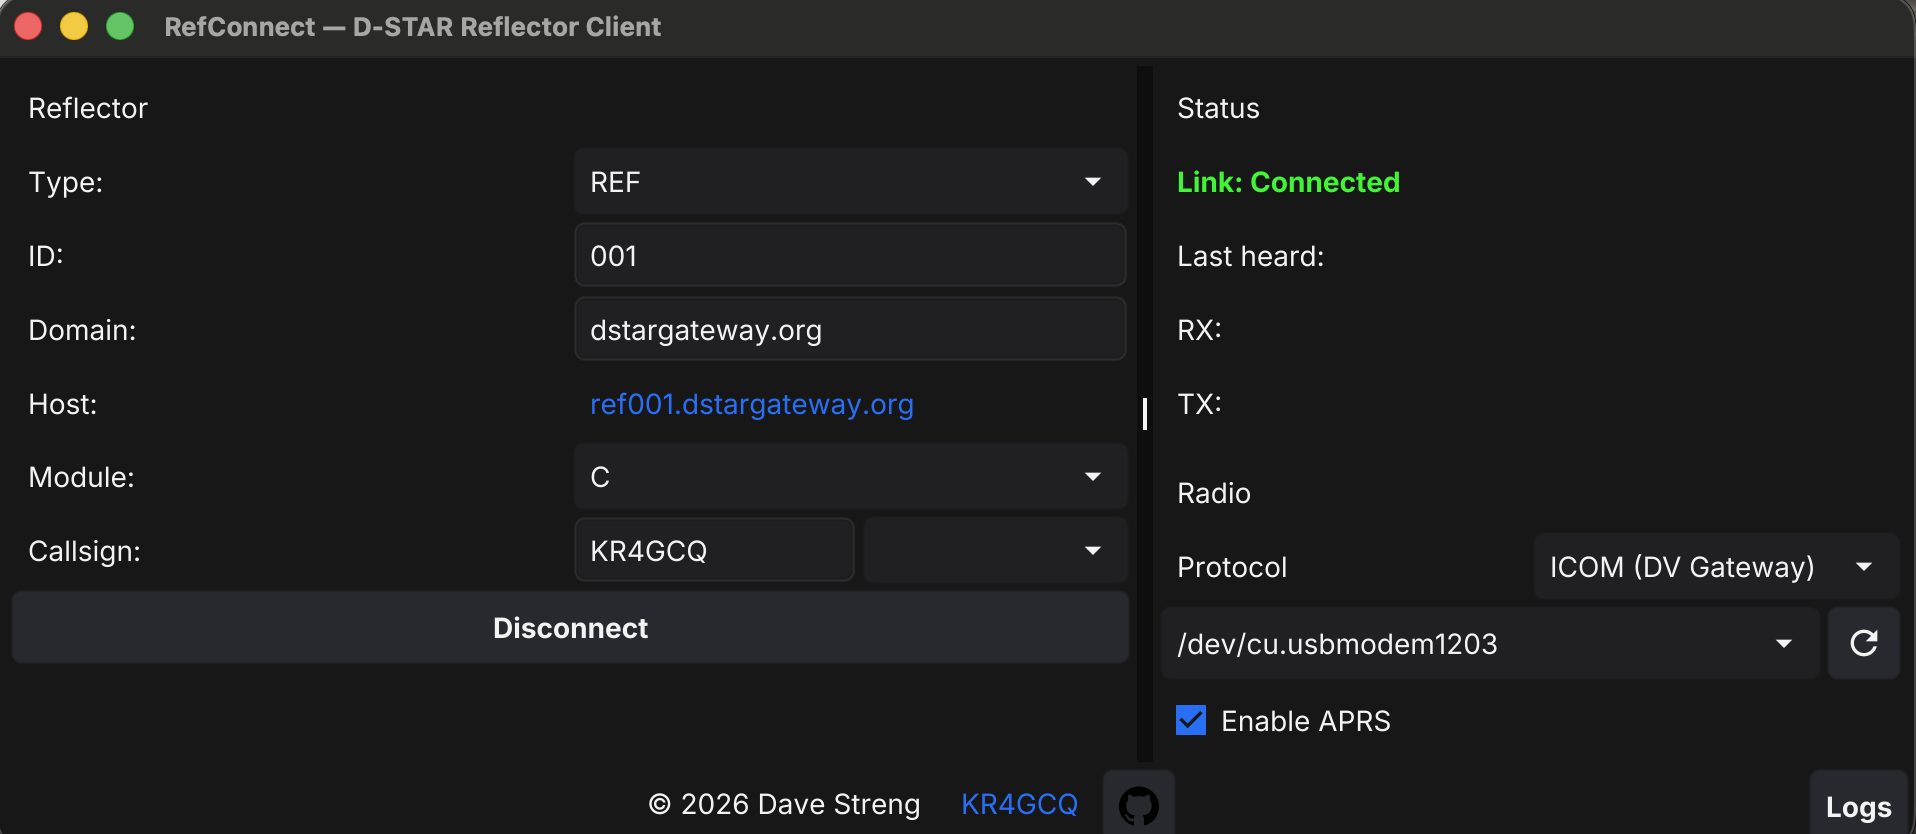
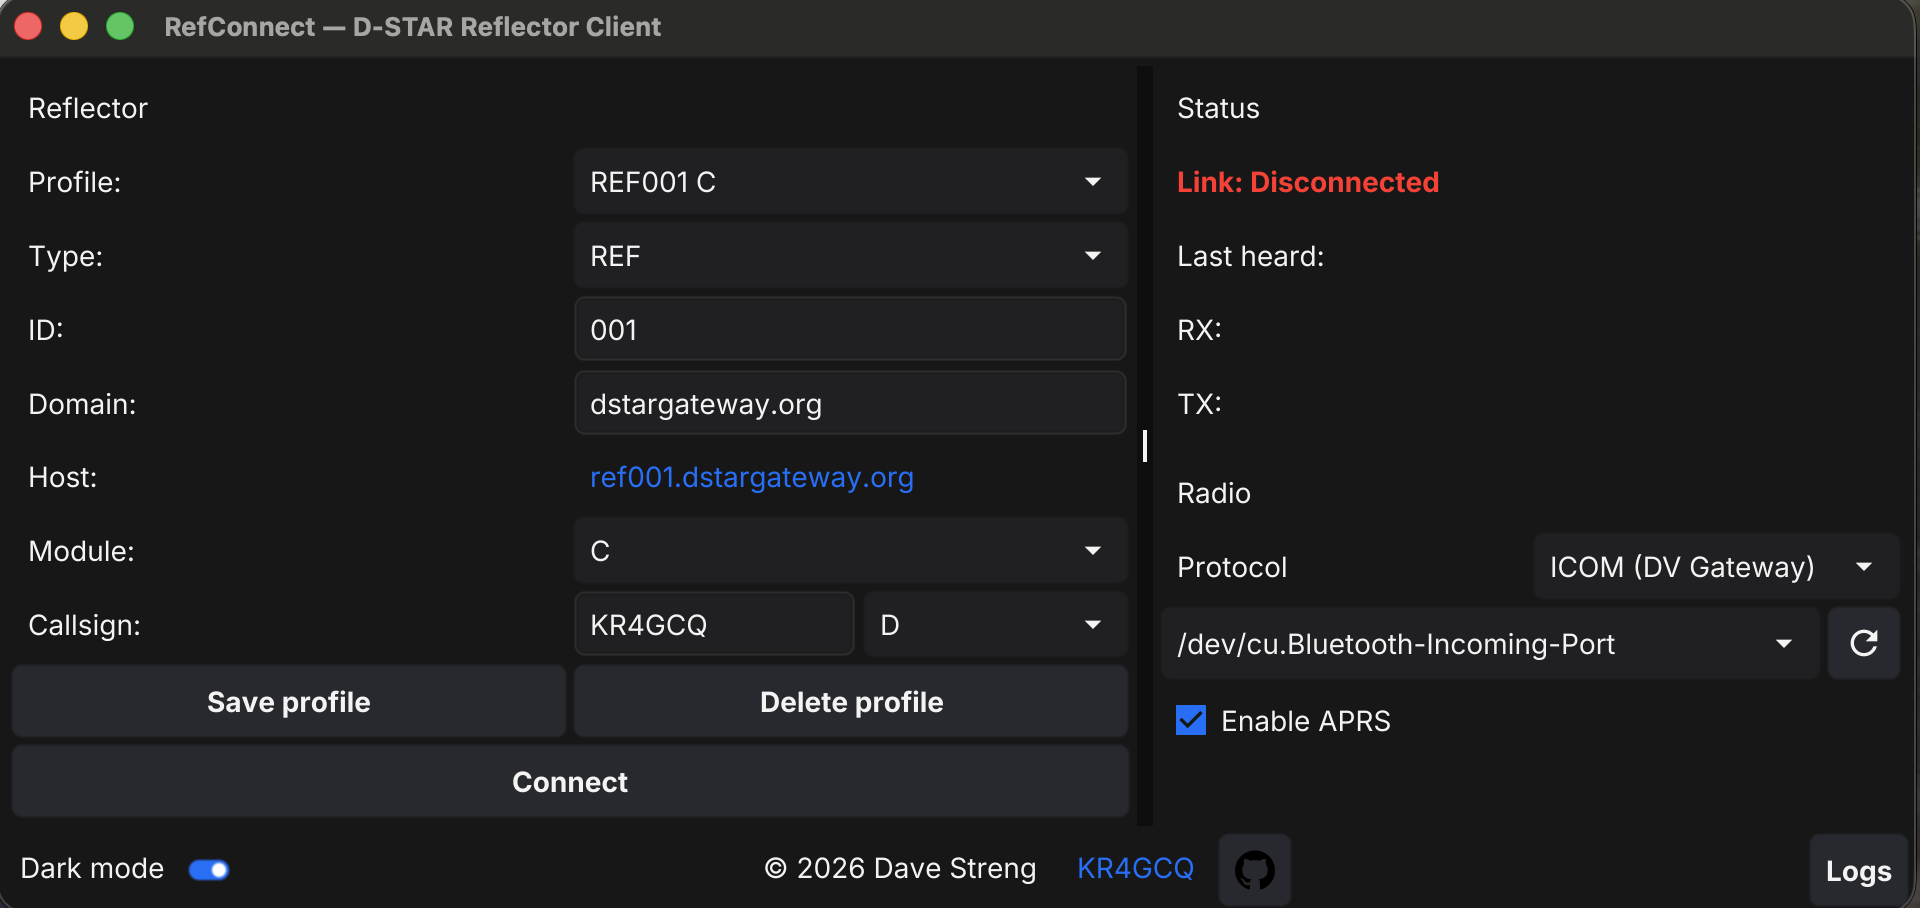
docs(README.md): updating readme docs with profile options and updating screenshot

diff --git a/README.md b/README.md
@@ -78,12 +78,22 @@ ui:
 ## Usage
 
 1. **Select your radio** — Choose the protocol (ICOM or Kenwood) and serial port in the Radio panel, then click **Open**.
-2. **Select a reflector** — Choose a saved reflector profile or enter a new one in the Connect panel.
+2. **Select a reflector** — Choose a saved reflector profile from the Profile dropdown, or fill in Type/ID/Domain/Module to create a new one.
 3. **Enter your callsign** — Set your callsign and gateway module suffix.
-4. **Click Connect** — The status panel will update once the link is established.
+4. **Click Connect** — The status panel will update once the link is established. The connected profile is remembered and reselected automatically on the next launch.
 5. **Transmit** — Key up on your radio! Welcome to D-STAR!
 
 The log panel shows timestamped activity including connections, heard callsigns, and errors.
+
+### Saving reflector profiles
+
+The Connect panel keeps a list of saved profiles you can switch between via the **Profile** dropdown:
+
+- **Save profile** — captures the current Type, ID, Domain, and Module fields and writes the entry into `config.yaml` under `reflectors`. The profile name is derived from the form (e.g. `REF001 C`); saving with the same name overwrites the existing entry, otherwise a new one is appended.
+- **Delete profile** — removes the currently selected entry from the dropdown and from `config.yaml`.
+- **Last used** — the most recent profile you connected to is stored in `last_used_reflector` and pre-selected on next launch.
+
+Because profiles live in `config.yaml`, you can migrate them between devices by copying that file. Callsign and gateway suffix are global and apply to every profile.
 
 ## License
 